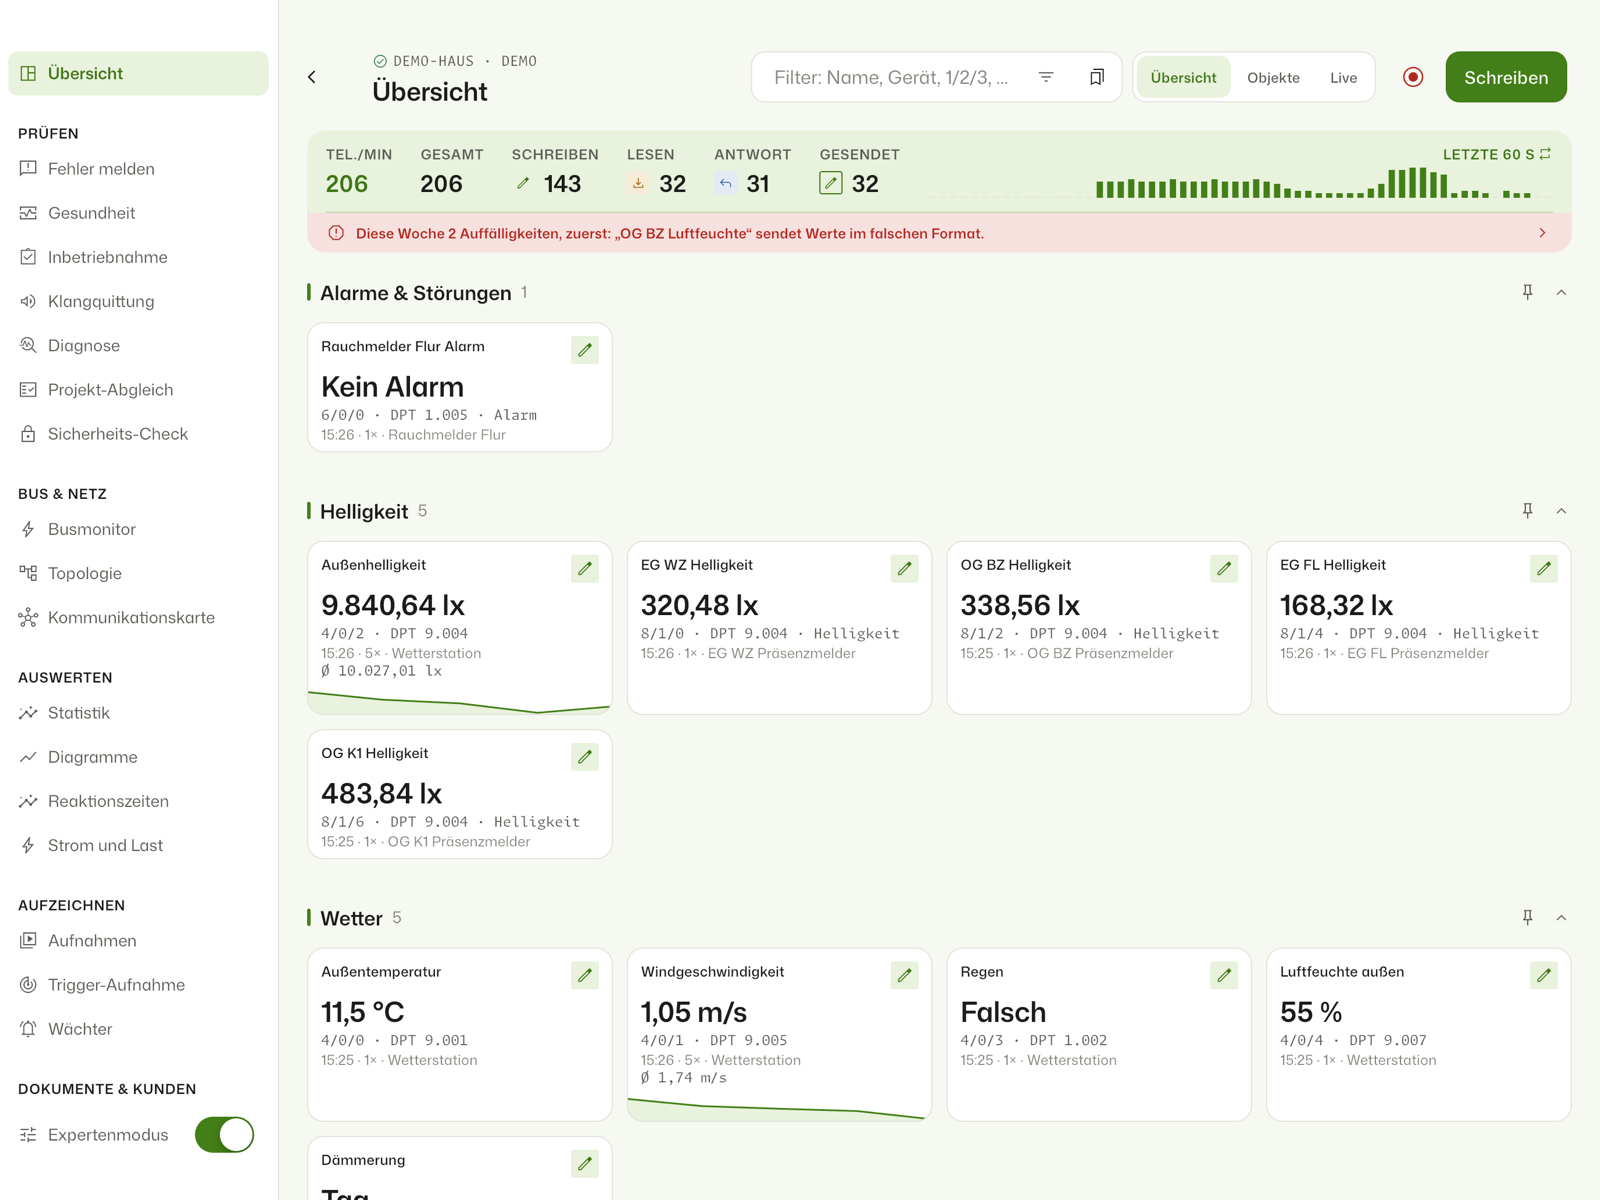
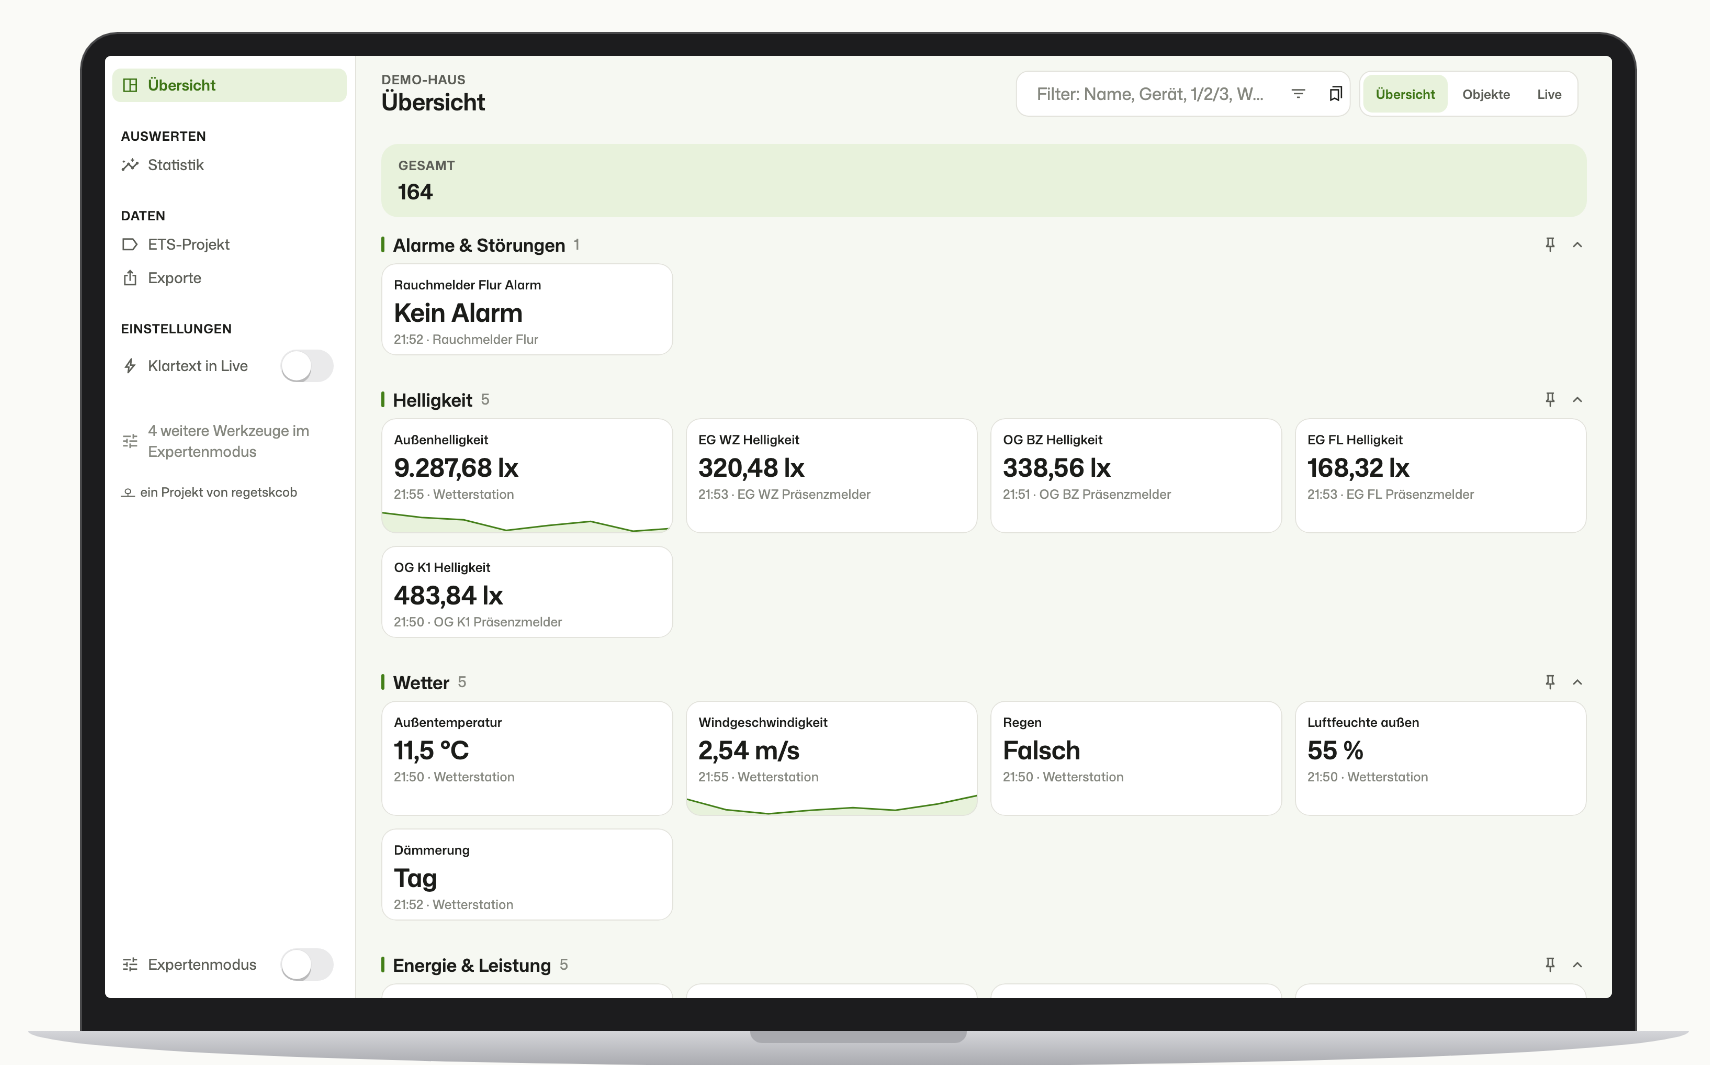
KNX Monitor: Forenbilder vom Mac im Geräterahmen

diff --git a/static/knx/socials/index.html b/static/knx/socials/index.html
@@ -507,7 +507,7 @@ Im Hausplan setzt du Geräte auf deinen Grundriss, die App fragt nach und rechne
 #knx #neubau #grundriss #elektroplanung #smarthome</pre>
         <dl><dt>Alt-Text</dt><dd>Kurzes Video ohne Ton: Auf einem Grundriss wird ein Taster hinter einer Tür markiert und auf die Griffseite verschoben. Danach erscheint der Kanalbedarf eines Beispielhauses.</dd><dt>Erster Kommentar</dt><dd>Wo sitzt bei euch der ungünstigste Schalter im Haus?</dd></dl>
       </div>
-    </article></section><section id="foren"><h2>Foren</h2><p class="lead">Antippen lädt das Bild herunter.</p><h3>Bilder für deutsche Foren</h3><div class="strip forum"><a href="media/forum/de/01-overview.png" download><img src="media/forum/de/01-overview.png" alt="01-overview" loading="lazy"></a><a href="media/forum/de/02-details.png" download><img src="media/forum/de/02-details.png" alt="02-details" loading="lazy"></a><a href="media/forum/de/03-topology.png" download><img src="media/forum/de/03-topology.png" alt="03-topology" loading="lazy"></a><a href="media/forum/de/04-health.png" download><img src="media/forum/de/04-health.png" alt="04-health" loading="lazy"></a></div><h3>Bilder für englische Foren</h3><div class="strip forum"><a href="media/forum/en/01-overview.png" download><img src="media/forum/en/01-overview.png" alt="01-overview" loading="lazy"></a><a href="media/forum/en/02-details.png" download><img src="media/forum/en/02-details.png" alt="02-details" loading="lazy"></a><a href="media/forum/en/03-topology.png" download><img src="media/forum/en/03-topology.png" alt="03-topology" loading="lazy"></a><a href="media/forum/en/04-health.png" download><img src="media/forum/en/04-health.png" alt="04-health" loading="lazy"></a></div>
+    </article></section><section id="foren"><h2>Foren</h2><p class="lead">Antippen lädt das Bild herunter.</p><h3>Bilder für deutsche Foren</h3><div class="strip forum"><a href="media/forum/de/01-overview.png" download><img src="media/forum/de/01-overview.png" alt="01-overview" loading="lazy"></a><a href="media/forum/de/02-live.png" download><img src="media/forum/de/02-live.png" alt="02-live" loading="lazy"></a><a href="media/forum/de/03-objects.png" download><img src="media/forum/de/03-objects.png" alt="03-objects" loading="lazy"></a><a href="media/forum/de/04-details.png" download><img src="media/forum/de/04-details.png" alt="04-details" loading="lazy"></a></div><h3>Bilder für englische Foren</h3><div class="strip forum"><a href="media/forum/en/01-overview.png" download><img src="media/forum/en/01-overview.png" alt="01-overview" loading="lazy"></a><a href="media/forum/en/02-live.png" download><img src="media/forum/en/02-live.png" alt="02-live" loading="lazy"></a><a href="media/forum/en/03-objects.png" download><img src="media/forum/en/03-objects.png" alt="03-objects" loading="lazy"></a></div>
     <article class="post forum-text">
       <header><h3>1. KNX-User-Forum (Deutsch)</h3></header>
       <div class="caption">
@@ -539,8 +539,8 @@ Daniel
 
 - **Wo:** das passende Unterforum vor dem Posten prüfen; frühere
   Projektvorstellungen stehen im KNX-EIB-Forum.
-- **Bilder:** `store/social/forum/de/` (vier Stück, auch auf der Socials-Seite im
-  Abschnitt Foren), dazu `teaser/assets/images/box-setup-de.png`.
+- **Bilder:** `store/social/forum/de/` (Mac im Geräterahmen, vier Stück, auch auf der
+  Socials-Seite im Abschnitt Foren), dazu `teaser/assets/images/box-setup-de.png`.
 
 **Titel:** Projektvorstellung und Tester gesucht: KNX Monitor, Busmonitor und Diagnose für Home Assistant, Linux und Raspberry Pi
 
